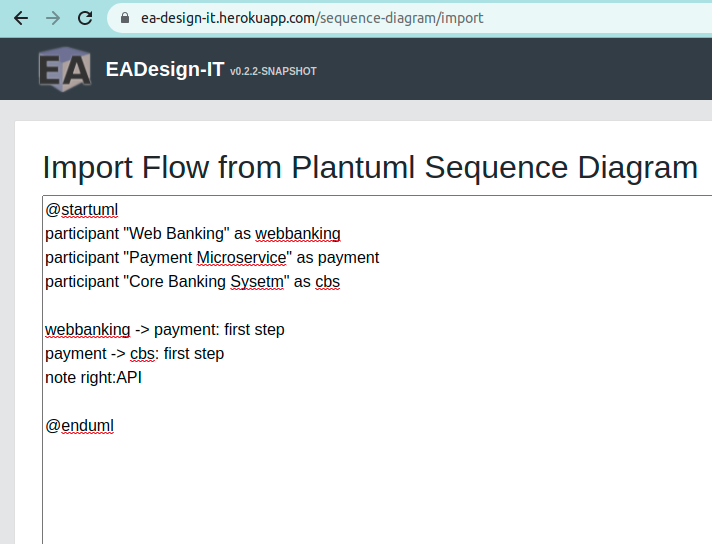
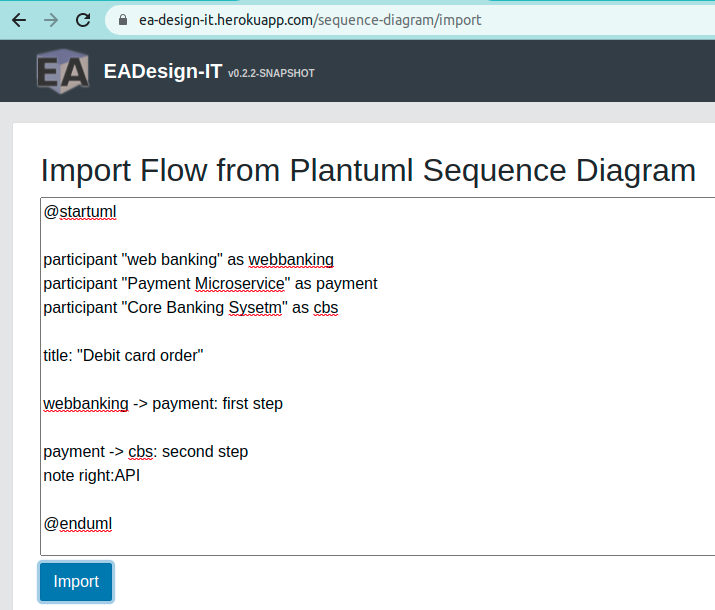
avoid // in URL

diff --git a/src/main/webapp/app/eadesignit/sequence-diagram/import.service.ts b/src/main/webapp/app/eadesignit/sequence-diagram/import.service.ts
@@ -3,7 +3,7 @@ import axios from 'axios';
 import { IFunctionalFlow } from '@/shared/model/functional-flow.model';
 
 const baseApiUrl = 'api/functional-flows';
-const basePlantUMLApiUrl = 'api/plantuml/';
+const basePlantUMLApiUrl = 'api/plantuml';
 const importApiUrl = 'api/import/flow/sequence-diagram';
 
 export default class SequenceDiagramService {

diff --git a/docs/plantuml-import/import.md b/docs/plantuml-import/import.md
@@ -14,14 +14,13 @@ You can describe your Functional Flow as a Sequence Diagarm
 
 ```
 @startuml
-participant webbanking
-participant "payment" 
-participant "CBS System" as cbs
-
+participant "web banking" as webbanking
+participant "Payment Microservice" as payment
+participant "Core Banking Sysetm" as cbs
+title: "Debit card order"
 webbanking -> payment: first step
-payment -> cbs: first step
+payment -> cbs: second step
 note right:API
-
 @enduml
 ```
 
